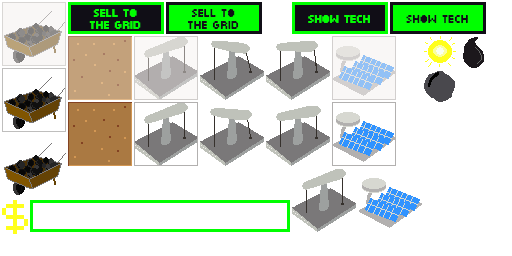
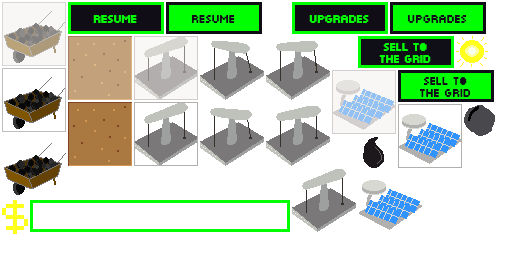
toggle between tech tree & game

diff --git a/src/state/play_state.rs b/src/state/play_state.rs
@@ -90,90 +90,94 @@ impl <'a>State for PlayState<'a> {
 
         let dimensions = renderer::get_dimensions();
 
+        let mut side_bar_container = Node::new(Some(world.create_entity()
+            .with(Transform::visible(640.0, 0.0, 0.0, (dimensions[0] - 640.0) as u16, dimensions[1] as u16, 0.0, 1.0, 1.0))
+            .build()), None);
+
         let entity = world.create_entity()
             .with(PowerBar::new())
-            .with(Transform::visible(670.0, 32.0, 0.0, 260, 32, 0.0, 1.0, 1.0))
+            .with(Transform::visible(30.0, 32.0, 0.0, 260, 32, 0.0, 1.0, 1.0))
             .with(Sprite{ frame_name: "powerbar.png".to_string() })
             .build();
-        scene.nodes.push(Node::new(Some(entity), None));
+        side_bar_container.sub_nodes.push(Node::new(Some(entity), None));
 
         let entity = world.create_entity()
             .with(CurrentPower{})
-            .with(Transform::visible(674.0, 36.0, 1.0, CurrentPower::get_max_with(), 24, 0.0, 1.0, 1.0))
+            .with(Transform::visible(34.0, 36.0, 1.0, CurrentPower::get_max_with(), 24, 0.0, 1.0, 1.0))
             .with(Rect::new())
             .with(Color([0.0, 1.0, 0.0, 1.0]))
             .build();
-        scene.nodes.push(Node::new(Some(entity), None));
+        side_bar_container.sub_nodes.push(Node::new(Some(entity), None));
 
         // coal sprite
         let entity = world.create_entity()
             .with(ResourceCount{ resource_type: ResourceType::Coal })
-            .with(Transform::visible(670.0, 108.0, 0.0, 32, 32, 0.0, 1.0, 1.0))
+            .with(Transform::visible(30.0, 108.0, 0.0, 32, 32, 0.0, 1.0, 1.0))
             .with(Sprite{ frame_name: "coal.png".to_string() })
             .build();
-        scene.nodes.push(Node::new(Some(entity), None));
+        side_bar_container.sub_nodes.push(Node::new(Some(entity), None));
 
         // coal text
         let entity = world.create_entity()
             .with(ResourceCount{ resource_type: ResourceType::Coal })
-            .with(Transform::visible(720.0, 108.0, 0.0, 32, 32, 0.0, 1.0, 1.0))
+            .with(Transform::visible(80.0, 108.0, 0.0, 32, 32, 0.0, 1.0, 1.0))
             .with(Text::new(&font, 32.0))
             .with(Color([0.0, 1.0, 0.0, 1.0]))
             .build();
-        scene.nodes.push(Node::new(Some(entity), None));
+        side_bar_container.sub_nodes.push(Node::new(Some(entity), None));
 
         // oil sprite
         let entity = world.create_entity()
             .with(ResourceCount{ resource_type: ResourceType::Oil })
-            .with(Transform::visible(670.0, 142.0, 0.0, 32, 32, 0.0, 1.0, 1.0))
+            .with(Transform::visible(30.0, 142.0, 0.0, 32, 32, 0.0, 1.0, 1.0))
             .with(Sprite{ frame_name: "oil.png".to_string() })
             .build();
-        scene.nodes.push(Node::new(Some(entity), None));
+        side_bar_container.sub_nodes.push(Node::new(Some(entity), None));
 
         // oil text
         let entity = world.create_entity()
             .with(ResourceCount{ resource_type: ResourceType::Oil })
-            .with(Transform::visible(720.0, 142.0, 0.0, 32, 32, 0.0, 1.0, 1.0))
+            .with(Transform::visible(80.0, 142.0, 0.0, 32, 32, 0.0, 1.0, 1.0))
             .with(Text::new(&font, 32.0))
             .with(Color([0.0, 1.0, 0.0, 1.0]))
             .build();
-        scene.nodes.push(Node::new(Some(entity), None));
+        side_bar_container.sub_nodes.push(Node::new(Some(entity), None));
 
         // solar sprite
         let entity = world.create_entity()
             .with(ResourceCount{ resource_type: ResourceType::Clean })
-            .with(Transform::visible(670.0, 188.0, 0.0, 32, 32, 0.0, 1.0, 1.0))
+            .with(Transform::visible(30.0, 188.0, 0.0, 32, 32, 0.0, 1.0, 1.0))
             .with(Sprite{ frame_name: "sun.png".to_string() })
             .build();
-        scene.nodes.push(Node::new(Some(entity), None));
+        side_bar_container.sub_nodes.push(Node::new(Some(entity), None));
 
         // solar text
         let entity = world.create_entity()
             .with(ResourceCount{ resource_type: ResourceType::Clean })
-            .with(Transform::visible(720.0, 188.0, 0.0, 32, 32, 0.0, 1.0, 1.0))
+            .with(Transform::visible(80.0, 188.0, 0.0, 32, 32, 0.0, 1.0, 1.0))
             .with(Text::new(&font, 32.0))
             .with(Color([0.0, 1.0, 0.0, 1.0]))
             .build();
-        scene.nodes.push(Node::new(Some(entity), None));
+        side_bar_container.sub_nodes.push(Node::new(Some(entity), None));
 
         // money sprite
         let entity = world.create_entity()
             .with(WalletUI{})
-            .with(Transform::visible(673.0, 228.0, 0.0, 26, 32, 0.0, 1.0, 1.0))
+            .with(Transform::visible(33.0, 228.0, 0.0, 26, 32, 0.0, 1.0, 1.0))
             .with(Sprite{ frame_name: "dollarsign.png".to_string() })
             .build();
-        scene.nodes.push(Node::new(Some(entity), None));
+        side_bar_container.sub_nodes.push(Node::new(Some(entity), None));
 
         // money text
         let mut text = Text::new(&font, 32.0);
         text.set_text(format!("{}", Wallet::start_amount()));
         let entity = world.create_entity()
             .with(WalletUI{})
-            .with(Transform::visible(720.0, 228.0, 0.0, 32, 32, 0.0, 1.0, 1.0))
+            .with(Transform::visible(80.0, 228.0, 0.0, 32, 32, 0.0, 1.0, 1.0))
             .with(text)
             .with(Color([0.0, 1.0, 0.0, 1.0]))
             .build();
-        scene.nodes.push(Node::new(Some(entity), None));
+        side_bar_container.sub_nodes.push(Node::new(Some(entity), None));
 
         // selected
         let entity = world.create_entity()
@@ -187,23 +191,26 @@ impl <'a>State for PlayState<'a> {
         // sell button
         let entity = world.create_entity()
             .with(Button::new("power-btn".to_string(), ["power-btn.png".to_string(), "power-btn-hover.png".to_string()]))
-            .with(Transform::visible(822.0, 576.0, 0.0, 96, 32, 0.0, 1.0, 1.0))
+            .with(Transform::visible(182.0, 576.0, 0.0, 96, 32, 0.0, 1.0, 1.0))
             .with(Sprite{ frame_name: "power-btn.png".to_string() })
             .build();
-        scene.nodes.push(Node::new(Some(entity), None));
+        side_bar_container.sub_nodes.push(Node::new(Some(entity), None));
 
         // tech tree button
         let entity = world.create_entity()
             .with(Button::new("show-tech".to_string(), ["show-tech.png".to_string(), "show-tech-hover.png".to_string()]))
-            .with(Transform::visible(683.0, 576.0, 0.0, 96, 32, 0.0, 1.0, 1.0))
+            .with(Transform::visible(43.0, 576.0, 0.0, 96, 32, 0.0, 1.0, 1.0))
             .with(Sprite{ frame_name: "show-tech.png".to_string() })
             .build();
-        scene.nodes.push(Node::new(Some(entity), None));
+        side_bar_container.sub_nodes.push(Node::new(Some(entity), None));
 
         {
             let mut lookup = world.write_resource::<EntityLookup>();
             lookup.entities.insert("show_button_entity".to_string(), entity);
+            lookup.entities.insert("side_bar_container".to_string(), side_bar_container.entity.unwrap());
         }
+
+        scene.nodes.push(side_bar_container);
 
         let mut tech_tree_node = tech_tree::build_tech_tree(world);
         let mut tech_tree_container = Node::new(Some(world.create_entity()
@@ -218,7 +225,18 @@ impl <'a>State for PlayState<'a> {
             };
             tech_tree::traverse_tree(&mut tech_tree_node, &mut add_to_container);
         }
+
+        let entity = world.create_entity()
+            .with(Button::new("resume_from_upgrades".to_string(), ["resume.png".to_string(), "resume-hover.png".to_string()]))
+            .with(Transform::visible(112.0, 576.0, 0.0, 96, 32, 0.0, 1.0, 1.0))
+            .with(Sprite{ frame_name: "resume.png".to_string() })
+            .build();
+
         let mut lookup = world.write_resource::<EntityLookup>();
+
+        lookup.entities.insert("resume_from_upgrades".to_string(), entity);
+        tech_tree_container.sub_nodes.push(Node::new(Some(entity), None));
+
         lookup.entities.insert("tech_tree_container".to_string(), tech_tree_container.entity.unwrap());
         scene.nodes.push(tech_tree_container);
     }

diff --git a/src/systems/toggle_tech_tree.rs b/src/systems/toggle_tech_tree.rs
@@ -8,6 +8,36 @@ impl ToggleTechTree {
     pub fn new() -> ToggleTechTree {
         ToggleTechTree{}
     }
+
+    fn check_show_tech_button(&mut self, lookup: &EntityLookup, input: &Input, button_storage: &mut WriteStorage<Button>, transform_storage: &mut WriteStorage<Transform>) {
+        let button = button_storage.get_mut(*lookup.entities.get("show_button_entity").unwrap()).unwrap();
+        if button.clicked(&input) {
+            {
+                let transform = transform_storage.get_mut(*lookup.entities.get("tech_tree_container").unwrap()).unwrap();
+                transform.visible = true;
+            }
+
+            {
+                let transform = transform_storage.get_mut(*lookup.entities.get("side_bar_container").unwrap()).unwrap();
+                transform.visible = false;
+            }
+        }
+    }
+
+    fn check_resume_from_upgrades_button(&mut self, lookup: &EntityLookup, input: &Input, button_storage: &mut WriteStorage<Button>, transform_storage: &mut WriteStorage<Transform>) {
+        let button = button_storage.get_mut(*lookup.entities.get("resume_from_upgrades").unwrap()).unwrap();
+        if button.clicked(&input) {
+            {
+                let transform = transform_storage.get_mut(*lookup.entities.get("tech_tree_container").unwrap()).unwrap();
+                transform.visible = false;
+            }
+
+            {
+                let transform = transform_storage.get_mut(*lookup.entities.get("side_bar_container").unwrap()).unwrap();
+                transform.visible = true;
+            }
+        }
+    }
 }
 
 impl<'a> System<'a> for ToggleTechTree {
@@ -23,10 +53,7 @@ impl<'a> System<'a> for ToggleTechTree {
 
         let lookup: &EntityLookup = lookup.deref();
         let input: &Input = input.deref();
-        let button = button_storage.get_mut(*lookup.entities.get("show_button_entity").unwrap()).unwrap();
-        if button.clicked(&input) {
-            let transform = transform_storage.get_mut(*lookup.entities.get("tech_tree_container").unwrap()).unwrap();
-            transform.visible = true;
-        }
+        self.check_show_tech_button(&lookup, &input, &mut button_storage, &mut transform_storage);
+        self.check_resume_from_upgrades_button(&lookup, &input, &mut button_storage, &mut transform_storage);
     }
 }
